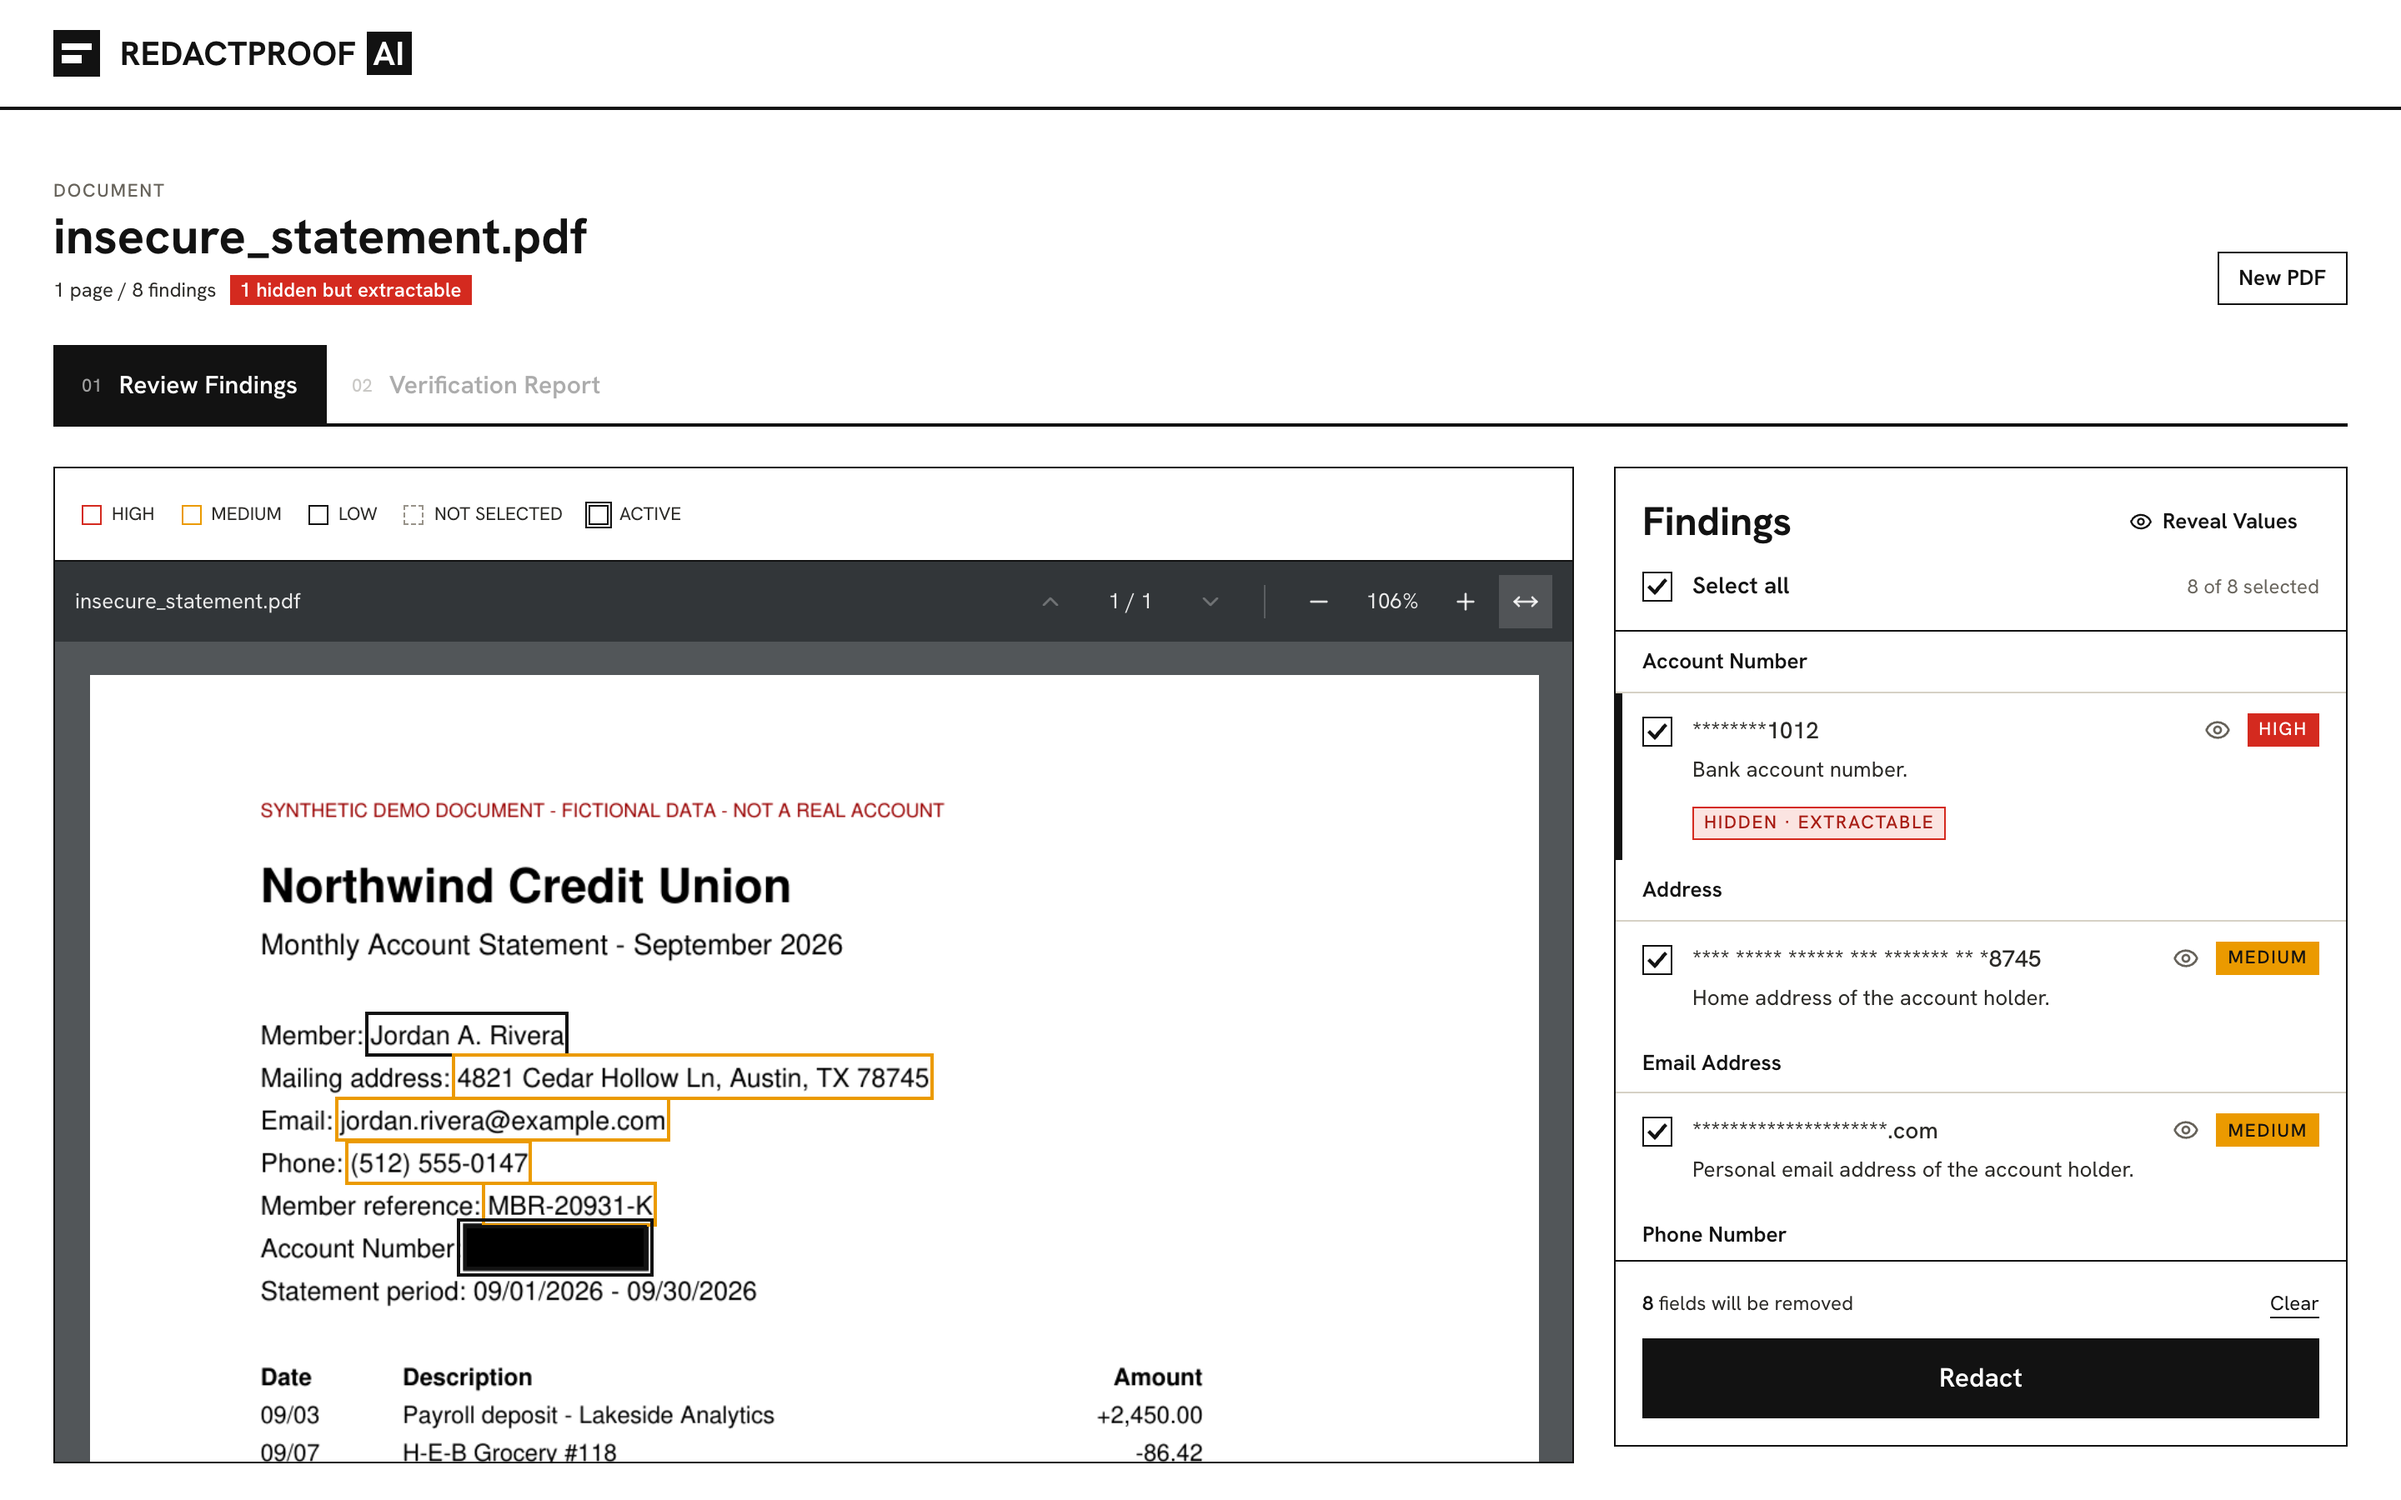
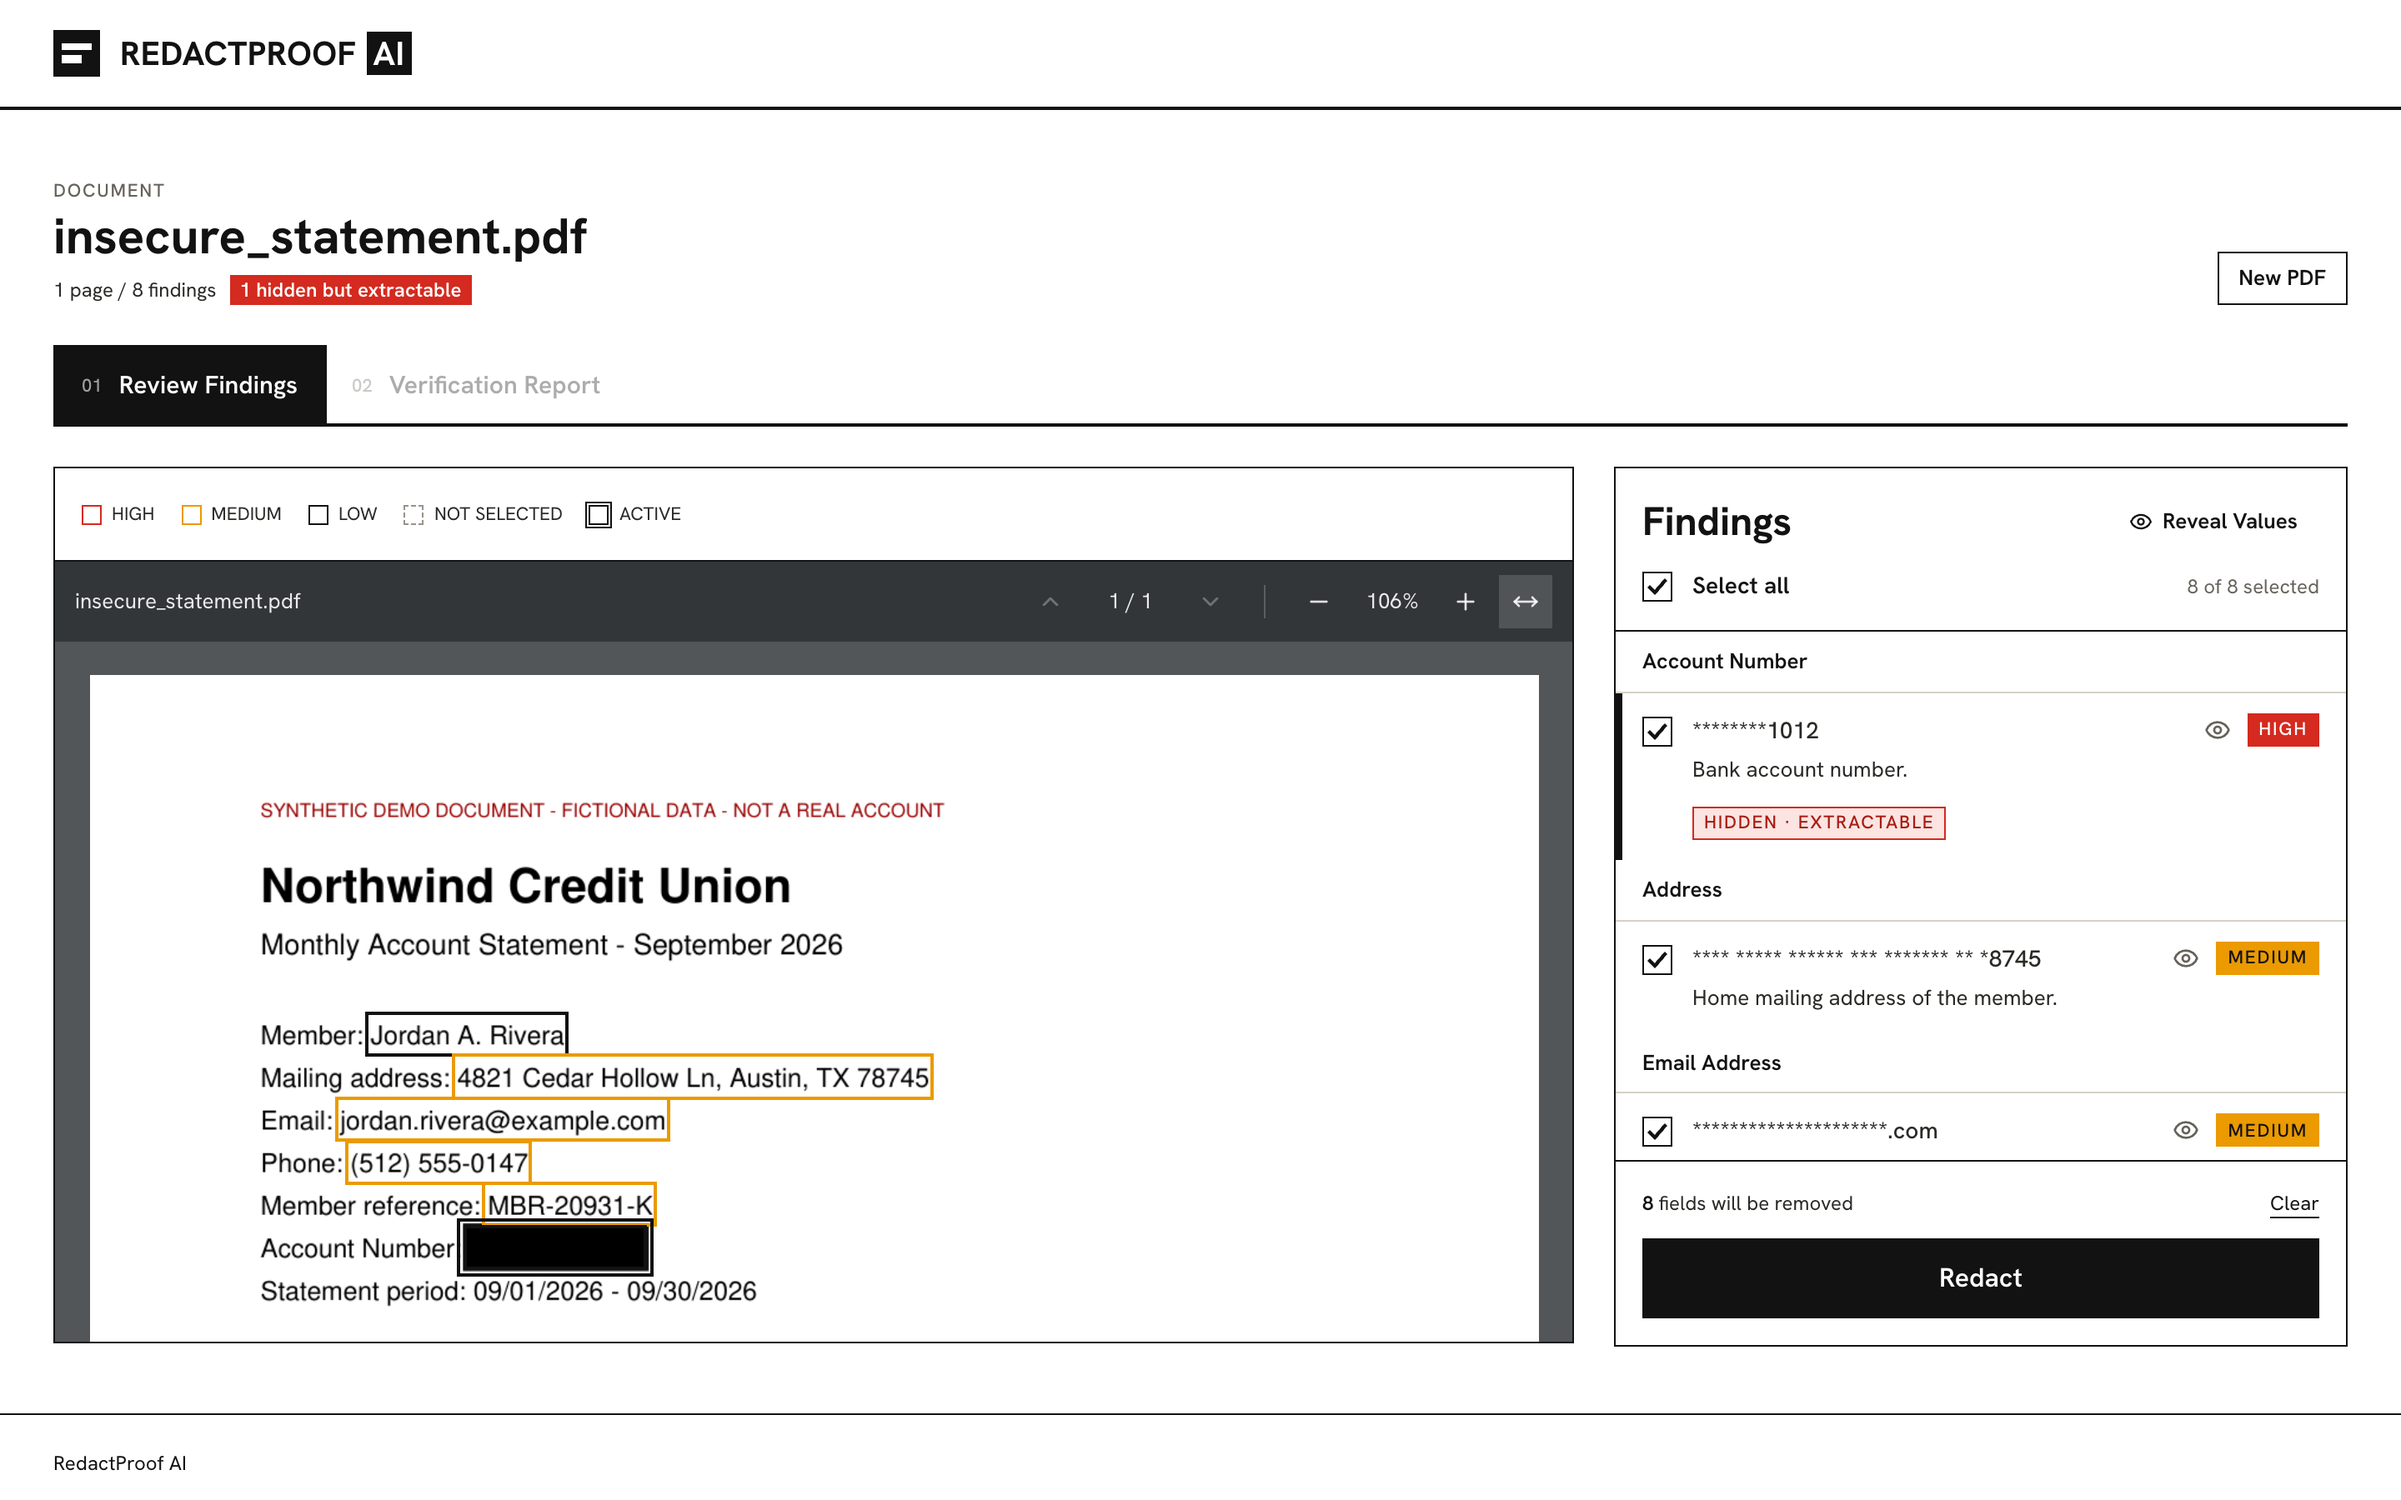
Make the PDF readers shorter and the same height everywhere
All readers (review and both report readers) now share one height:
100vh - 30rem, minimum 360px (420px in a 900px window, down from about
500px on review and 680px on the report). The findings panel is shortened
to stay level with the review reader.

diff --git a/frontend/src/components/BeforeAfterViewer.tsx b/frontend/src/components/BeforeAfterViewer.tsx
@@ -7,8 +7,6 @@ interface BeforeAfterViewerProps {
   result: RedactionResult
 }
 
-const READER_HEIGHT = 'h-[calc(100vh-14rem)] min-h-[480px]'
-
 export function BeforeAfterViewer({ analysis, result }: BeforeAfterViewerProps) {
   const redacted = new Set(result.redacted_finding_ids)
   const removed = analysis.findings.filter((f) => redacted.has(f.id))
@@ -27,13 +25,13 @@ export function BeforeAfterViewer({ analysis, result }: BeforeAfterViewerProps) 
               <Swatch className="border-success" /> redacted info
             </span>
           </figcaption>
-          <PdfReader filename={analysis.filename} pages={analysis.pages} findings={removed} toneFor={() => 'redacted'} heightClass={READER_HEIGHT} />
+          <PdfReader filename={analysis.filename} pages={analysis.pages} findings={removed} toneFor={() => 'redacted'} />
         </figure>
         <figure className="min-w-0 border-ink max-md:border-t-[1.5px] md:border-l-[1.5px]">
           <figcaption className="flex h-12 items-center border-b border-line px-5">
             <span className="text-[14px] font-semibold text-ink">Redacted</span>
           </figcaption>
-          <PdfReader filename={redactedName} pages={result.pages} heightClass={READER_HEIGHT} />
+          <PdfReader filename={redactedName} pages={result.pages} />
         </figure>
       </div>
     </section>

diff --git a/frontend/src/components/FindingsSidebar.tsx b/frontend/src/components/FindingsSidebar.tsx
@@ -34,7 +34,7 @@ export function FindingsSidebar({ findings, selectedIds, activeId, disabled, onS
   }
 
   return (
-    <section aria-label="Findings" className="panel flex max-h-[calc(100vh-19.5rem)] min-h-[460px] flex-col lg:sticky lg:top-24">
+    <section aria-label="Findings" className="panel flex max-h-[calc(100vh-23.25rem)] min-h-[460px] flex-col lg:sticky lg:top-24">
       <div className="border-b-[1.5px] border-ink p-4">
         <div className="flex items-center justify-between gap-2">
           <h2 className="font-display text-[24px] leading-none font-bold text-ink">

diff --git a/frontend/src/components/PdfReader.tsx b/frontend/src/components/PdfReader.tsx
@@ -38,7 +38,7 @@ export function PdfReader({
   focusKey = 0,
   onFindingClick,
   toneFor,
-  heightClass = 'h-[calc(100vh-25.5rem)] min-h-[420px]',
+  heightClass = 'h-[calc(100vh-30rem)] min-h-[360px]',
 }: PdfReaderProps) {
   const scrollRef = useRef<HTMLDivElement>(null)
   const pageRefs = useRef<(HTMLDivElement | null)[]>([])
